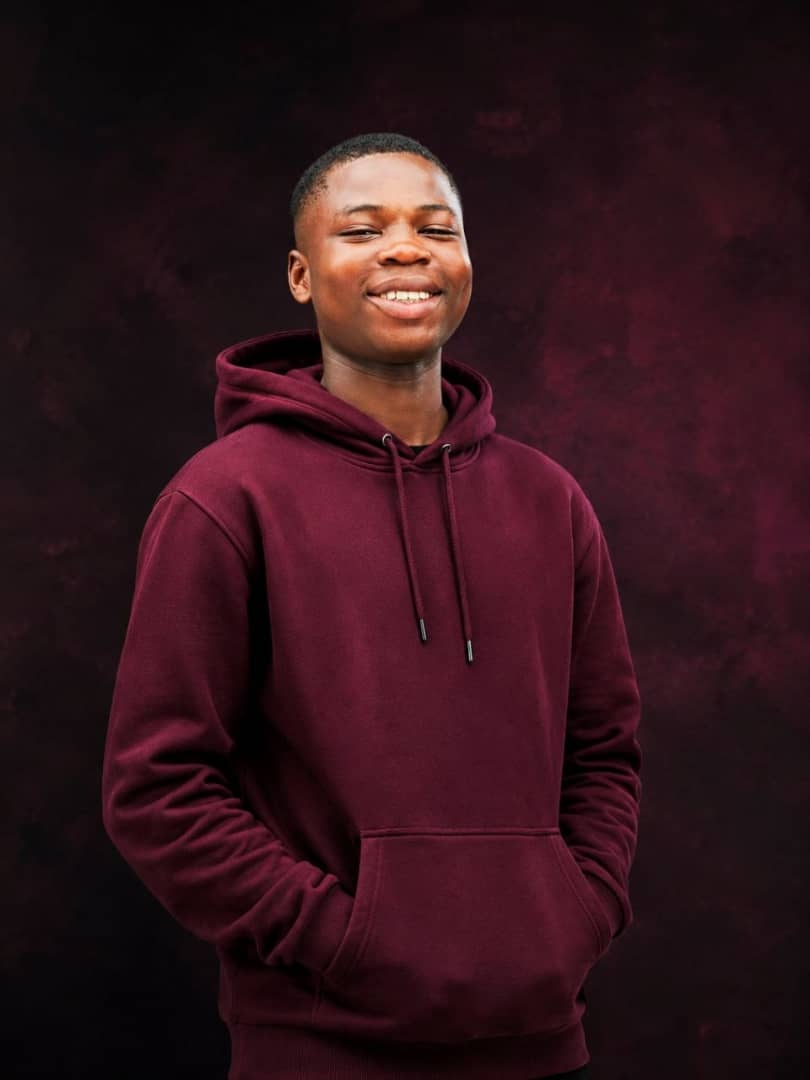
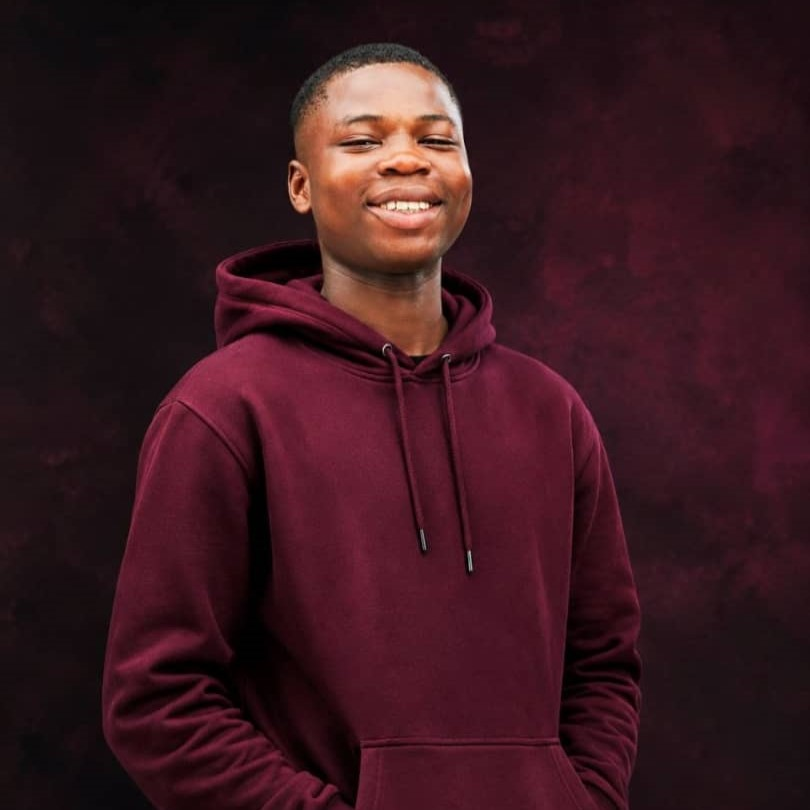
Update team images and adjust prince image size

diff --git a/about-us.html b/about-us.html
@@ -130,7 +130,7 @@
     </section>
 <br><br><br>
     <section class="prince">
-        <img src="prince.jpeg" style="width: 200px; border-radius: 50%; display: block; margin-left: auto; margin-right: auto;">
+        <img src="prince.jpeg" style="width: 220px; border-radius: 50%; display: block; margin-left: auto; margin-right: auto;">
           <p style="text-align: center; margin-top: 20px; font-size: 20px;">Samuel Adewoye</p>
         <h2 style="text-align: center; margin-top: 8px;">Group Leader</h2>
     </section>
@@ -138,7 +138,7 @@
     <section class="the-actual-team">
         <section class="front-end">
             <h3>The Front-End Team</h3>
-            <div><img src="my dp.jpg"> <p> Abasiofon Bob</p></div>
+            <div><img src="fhonz-black-tshirt.png"> <p> Abasiofon Bob</p></div>
             <div> <p> Stephanie Obadan</p></div>
             <div> <p> Abraham Bassey</p></div>
             <div> <p> Sunday Peace Ime</p></div>
